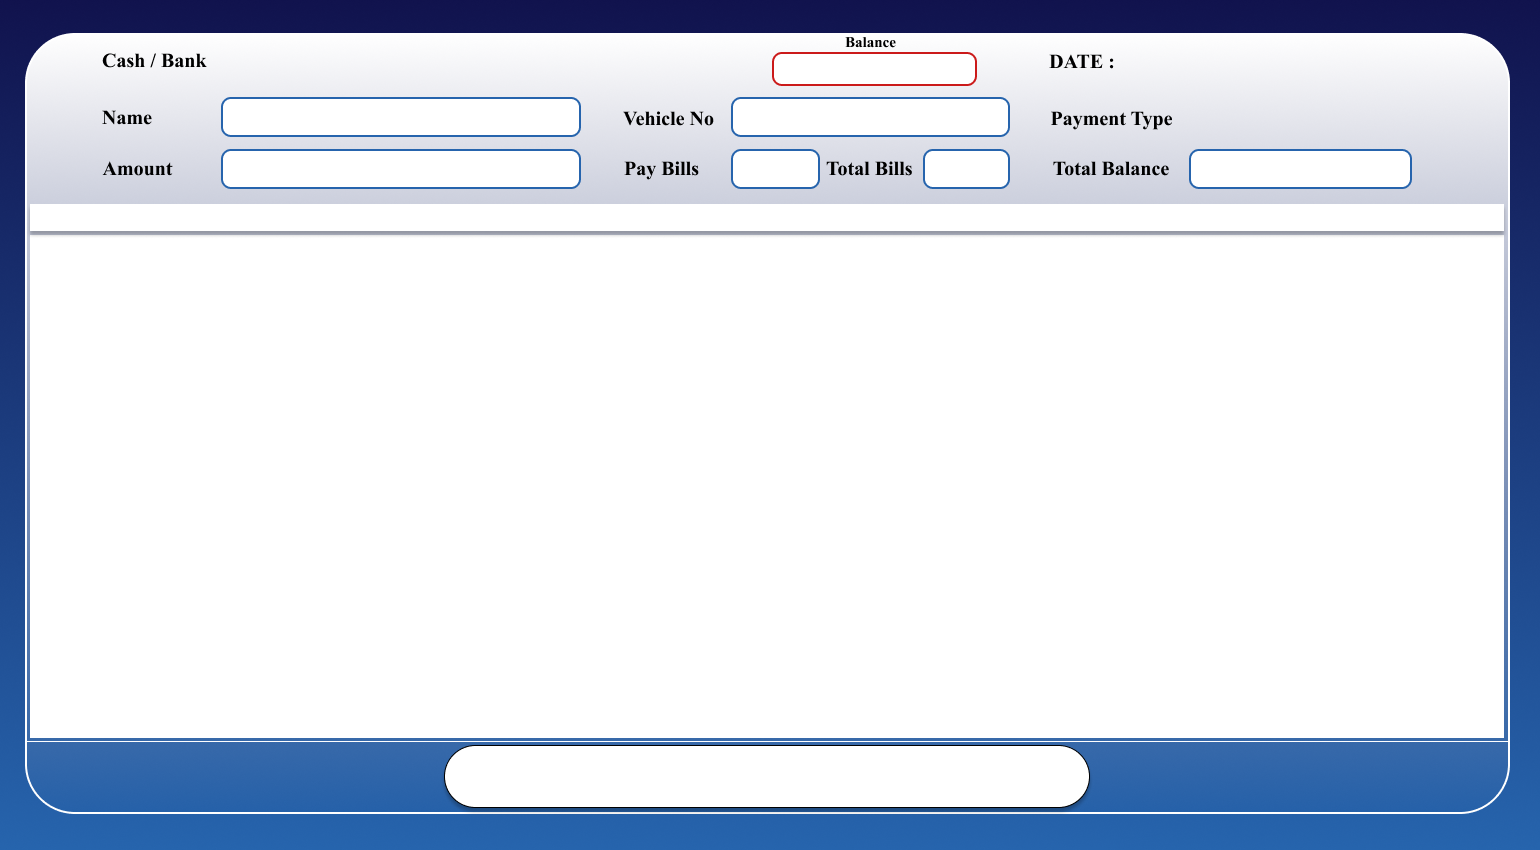
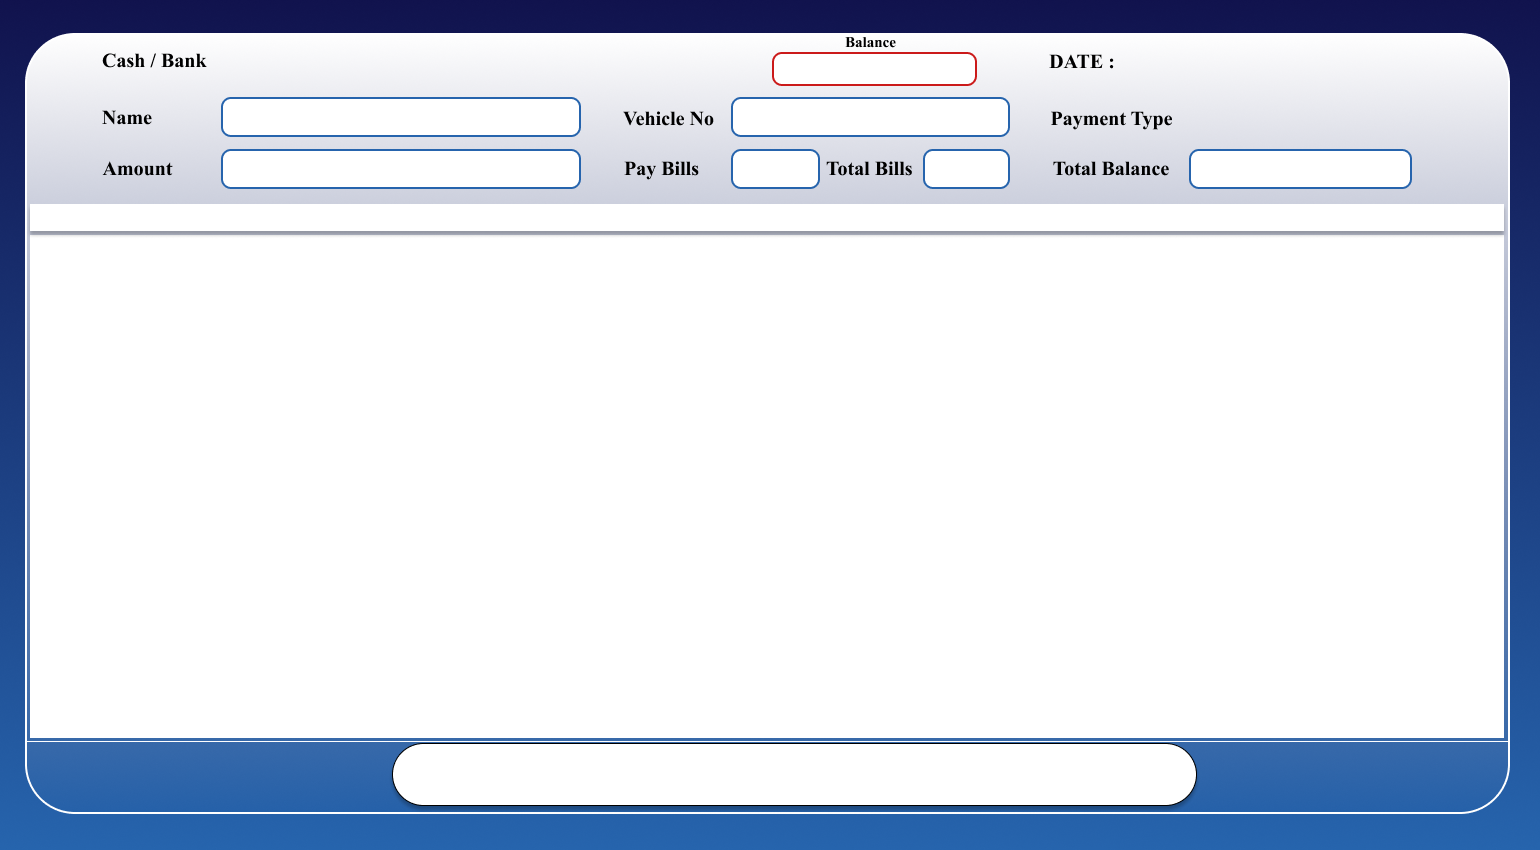
20_12_2023

Changed region(s): [[0.2494, 0.8565, 0.7792, 0.9788]]

diff --git a/payment.py b/payment.py
@@ -18,8 +18,15 @@ class Payment:
         self.p_bills_var = IntVar()
         self.balance_var = IntVar()
 
+        self.frame =None
+        self.label =None
+
         self.total_balance = 0
         self.t_bills =0
+        self.bal_data =[]
+        self.adv_data=[]
+        self.tapal_data =[]
+
 
         self.data_list = []
         self.des = False
@@ -64,7 +71,7 @@ class Payment:
 
         # *******************************************************************************************
 
-        self.type_entry = ttk.Combobox(root, values=['ADVANCE', 'BALANCE', 'TAPAL', 'MAJURI'],
+        self.type_entry = ttk.Combobox(root, values=['ADVANCE', 'BALANCE', 'TAPAL'],
                                        font=('times new roman', 15, 'bold'),textvariable=self.type_var,justify=CENTER)
         self.type_entry.place(x=1188, y=95, height=37, width=220)
         self.type_var.trace('w', partial(trace_data, self, self.type_var))
@@ -100,21 +107,28 @@ class Payment:
         self.clear_button = Button(self.root, text="CLEAR", font=("times new roman", 15, "bold"), image=self.button_img,
                                    borderwidth=0, activebackground="white", background="white", foreground="white",
                                    compound=CENTER,command=self.clear_entry)
-        self.clear_button.place(x=480, y=750, height=45)
+        self.clear_button.place(x=420, y=750, height=45)
 
         # *******************************************************************************************
 
         self.save_button = Button(self.root, text="SAVE", font=("times new roman", 15, "bold"), image=self.button_img,
                                   borderwidth=0, activebackground="white", background="white", foreground="white",
                                   compound=CENTER,command=self.save)
-        self.save_button.place(x=680, y=750, height=45)
+        self.save_button.place(x=610, y=750, height=45)
+
+        # *******************************************************************************************
+
+        self.settlement_button = Button(self.root, text="SETTLEMENT", font=("times new roman", 15, "bold"), image=self.button_img,
+                                   borderwidth=0, activebackground="white", background="white", foreground="white",
+                                   compound=CENTER,command=self.settlement_payment)
+        self.settlement_button.place(x=800, y=750, height=45)
 
         # *******************************************************************************************
 
         self.clear_all_button = Button(self.root, text="CLEAR ALL", font=("times new roman", 15, "bold"), image=self.button_img,
                                    borderwidth=0, activebackground="white", background="white", foreground="white",
                                    compound=CENTER,command=self.clear_all)
-        self.clear_all_button.place(x=880, y=750, height=45)
+        self.clear_all_button.place(x=990, y=750, height=45)
 
 
         # *******************************************************************************************
@@ -237,8 +251,21 @@ class Payment:
             self.balance_var.set(0)
             self.amount_entry['state']='normal'
 
+    def settlement_payment(self):
+        response = messagebox.askyesno("Question", "Do you want to Clear All Entry!")
+        if response:
+            if self.type_var.get() =='ADVANCE':
+                settle_amount_defination(self, db_data=self.adv_data, payment_amount=self.adv_payment_amount,
+                                         total_amount=self.adv_total_payment)
+            elif self.type_var.get() =='BALANCE':
+                settle_amount_defination(self,db_data=self.bal_data,payment_amount=self.bal_payment_amount,total_amount=self.bal_total_payment)
+
+            elif self.type_var.get() =="TAPAL":
+                settle_amount_defination(self, db_data=self.tapal_data, payment_amount=self.tapal_payment_amount,
+                                         total_amount=self.tapal_total_balance)
 
 
-# root = Tk()
-# payment_object=Payment(root)
-# root.mainloop()
+
+root = Tk()
+payment_object=Payment(root)
+root.mainloop()

diff --git a/payment_backend.py b/payment_backend.py
@@ -623,3 +623,32 @@ def check_negative_value(self):
                 flag=False
     return flag
 
+
+def settle_amount_defination(self,db_data,payment_amount,total_amount):
+
+
+    amount = self.amount_var.get()
+    ind = 0
+    t = [t[-1] for t in db_data]
+    if sum(t)<amount:
+        messagebox.showwarning("WARNING", f"'{amount}' is More than Balance Amount")
+        return
+
+    for i in range(len(db_data)):
+
+        if db_data[i][-1] < amount:
+            payment_amount[i].set(db_data[i][-1])
+            total_amount[i].set(payment_amount[i].get() - db_data[i][-1])
+            amount -= db_data[i][-1]
+        else:
+            ind = i
+            break
+
+    dat = [dat.get() for dat in payment_amount]
+    total = sum(dat)
+    if not total == self.amount_var.get():
+        balance_amount = self.amount_var.get() - total
+        payment_amount[ind].set(balance_amount)
+        total_amount[ind].set(total_amount[ind].get() - balance_amount)
+
+
